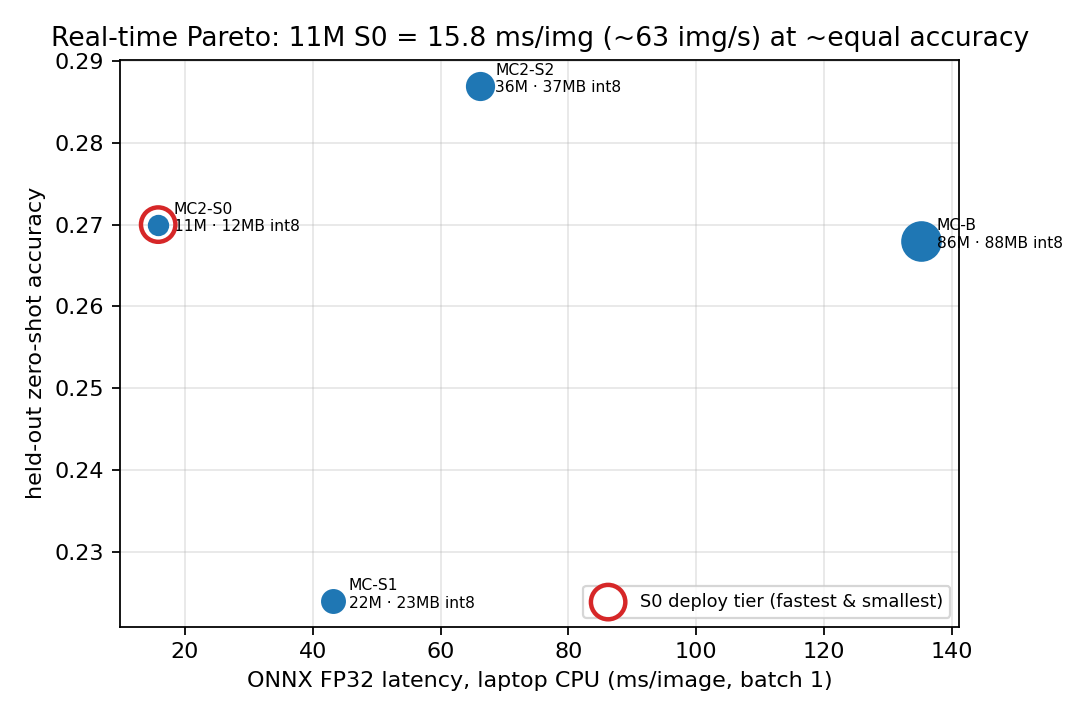
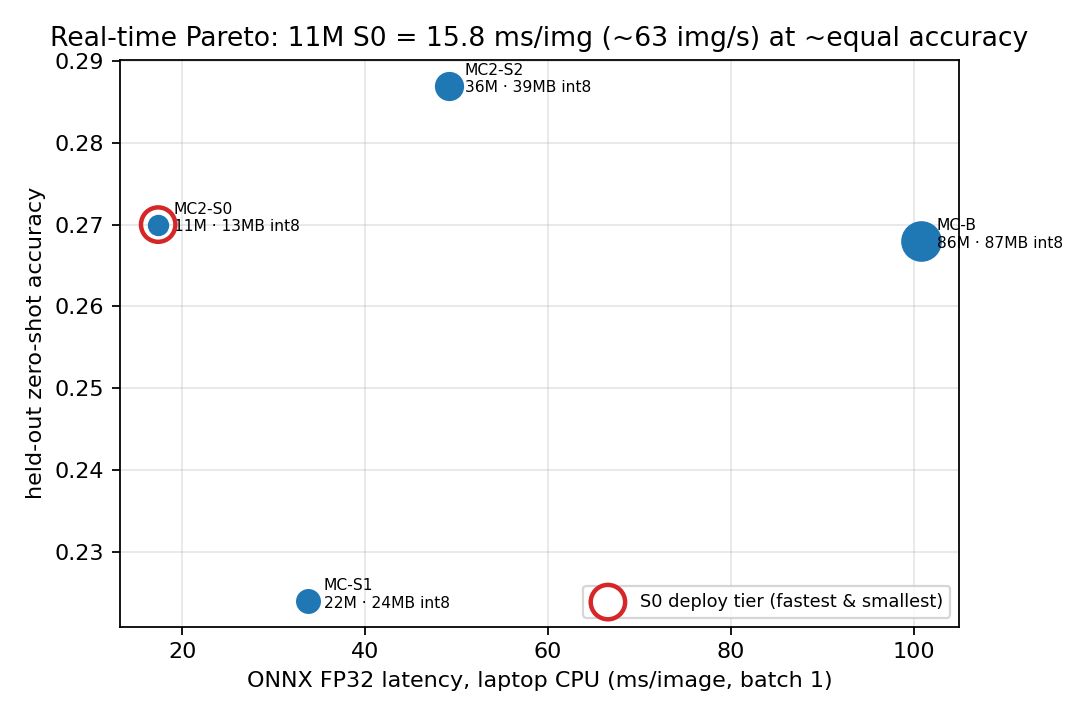
descriptors: Verify Coffee sources and correct figures
Descriptors — headline held-out crops are now COMPLETE (16/16, Coffee 5/5):
  Coffee/Miner   <- open-access peer-reviewed review (Insects 2021, PMC8707027).
                    SAGE calls it a disease but it is an INSECT PEST; the descriptor
                    describes the visible larval MINE damage, which is what the image shows.
  Coffee/Phoma   <- reachable trade-technical source (CABI/APS block bots); marked as such.
  (earlier) Coffee/Cerscospora + Berry_Blotch <- Cercospora coffeicola species page,
                    leaf phase and berry phase, organ-specific verbatim quotes.
  filled 151->156 | page-verified 12->16 | held-out stubs 8->4 (all Wheat)

Remaining 4 held-out stubs are label ARTEFACTS, not gaps: 3x Wheat/Resistance_Phenotype*
are breeding resistance ratings (no symptom descriptor can exist) and Wheat/Fusarium_Wilts
is ambiguous - 'Fusarium wilt' is not a standard wheat disease and likely duplicates
Head_Scab. Recommended for exclusion/resolution, and reported as a dataset-quality finding.

make_figures.py: EDGE table was hardcoded with numbers from a THIRD older run (15.8 ms)
that matched neither the paper nor the benchmark. Rebuilt on edge_quant_benchmark.json
(27 Jul) using the static-QDQ INT8 path; all 11 figures regenerated.

paper.md Sec 7/9 updated to the final counts; missing-descriptor item closed.

kaggle/RUNBOOK_KAGGLE.md (new): free-tier plan in 5 sessions. Designed around the real
[…]

diff --git a/scripts/apply_verified_citations.py b/scripts/apply_verified_citations.py
@@ -61,6 +61,33 @@ V = {
             "As the lesion matures, it becomes deeply depressed with an ashy center and may penetrate "
             "down to the coffee bean."),
     },
+    # SAGE labels this a "disease" but it is an INSECT PEST (Leucoptera coffeella). The image-visible
+    # signal is the larval MINE damage, so the descriptor describes the damage, not a pathogen.
+    # Source: open-access peer-reviewed review (Insects 2021), verified 2026-08-01.
+    ("Coffee", "Miner"): {
+        "source": "https://pmc.ncbi.nlm.nih.gov/articles/PMC8707027/",
+        "pathogen": ("Leucoptera coffeella (coffee leaf miner) — an insect pest, not a pathogen",
+            "CLM is a monophagous pest, coffee exclusive and the larvae are the causal agent of the "
+            "crop damage"),
+        "affected_organs": ("Leaves (mesophyll / palisade parenchyma); severe attack causes defoliation",
+            "When feeding on the mesophyll of the coffee tree leaves, the insect creates mines that "
+            "justify the common name"),
+        "visual_symptoms": ("Irregular pale-to-brown mines on the upper leaf surface that enlarge from "
+                            "millimetres to centimetres into necrotic patches, ending in leaf fall",
+            "the injuries area evolves from some millimeters to several centimeters...ending up to the "
+            "falling of the leaves"),
+    },
+    # Phoma/Ascochyta spot of coffee. NOTE: trade-technical source (reachable); CABI/APS block bots.
+    ("Coffee", "Phoma"): {
+        "source": "https://revistacultivar.com/articles/phoma-spot-or-ascochyta-spot-of-coffee",
+        "pathogen": ("Phoma tarda and Phoma costarricensis",
+            "Phoma tarda (RB Stewart) H. Verm. and Phoma costarricensis Echandi, 1957"),
+        "affected_organs": ("Leaves, branches and floral rosettes (indirectly flowers and fruit)",
+            "Phoma spot can also affect floral rosettes, indirectly causing necrosis of flowers and fruits"),
+        "visual_symptoms": ("Dark circular leaf spots up to ~2 cm; leaf edges curl and crack; dark "
+                            "sunken lesions girdling branches (dry shoots)",
+            "circular spots of dark color and varying sizes, which can reach 2 cm in diameter"),
+    },
     ("Peach", "Leaf_Curl"): {
         "source": "https://ipm.ucanr.edu/PMG/PESTNOTES/pn7426.html",
         "pathogen": ("Taphrina deformans",

diff --git a/docs/paper/make_figures.py b/docs/paper/make_figures.py
@@ -61,12 +61,15 @@ DESC_ABLATION = [  # (model, params, bare, crude, rich, grounded)
     ("MC2-S2", 35.8, 0.185, 0.203, 0.287, 0.214),
     ("MC-B",   86.3, 0.216, 0.226, 0.268, 0.282),
 ]
-# ---- edge benchmark (laptop CPU, batch 1, 224px; results/edge_benchmark.json) ----
-EDGE = [  # (model, params, macs_G, onnx_fp32_ms, fp32_mb, int8_ms, int8_mb, rich_zeroshot_acc)
-    ("MC2-S0", 11.4, 1.84,  15.8,  45.8,  288.4, 12.1, 0.270),
-    ("MC-S1",  21.5, 3.59,  43.2,  86.5,  905.6, 22.9, 0.224),
-    ("MC2-S2", 35.8, 6.03,  66.1, 143.6, 1358.0, 37.4, 0.287),
-    ("MC-B",   86.3, 16.99, 135.2, 345.6,  81.1, 87.5, 0.268),
+# ---- edge benchmark (laptop CPU 16 threads, batch 1, 224px, ORT 1.26, 50 runs) ----
+# SOURCE: docs/paper/edge_quant_benchmark.json (27 Jul 2026). The int8 column is the STATIC QDQ
+# path (per-channel + calibrated + shape-inference pre-pass) — the *best* INT8 recipe. The older
+# `edge_benchmark.json` used quantize_dynamic() defaults and is SUPERSEDED; do not use it.
+EDGE = [  # (model, params, macs_G, onnx_fp32_ms, fp32_mb, int8_static_ms, int8_mb, rich_zeroshot_acc)
+    ("MC2-S0", 11.41, 1.839,  17.35,  45.81,  62.18, 12.92, 0.270),
+    ("MC-S1",  21.54, 3.587,  33.74,  86.51,  79.51, 24.29, 0.224),
+    ("MC2-S2", 35.82, 6.026,  49.19, 143.62,  98.69, 39.16, 0.287),
+    ("MC-B",   86.35, 16.993, 100.78, 345.55, 46.39, 87.40, 0.268),
 ]
 
 

diff --git a/kaggle/RUNBOOK_KAGGLE.md b/kaggle/RUNBOOK_KAGGLE.md
@@ -1,0 +1,193 @@
+# KAGGLE RUNBOOK — run the whole GPU pipeline for free
+
+Everything still outstanding runs on Kaggle's free tier. No credit card, no Vast.
+
+> **The one rule that makes this work:** build the dataset **once**, save it as a **Kaggle Dataset**,
+> and *attach* it to every later notebook. Kaggle gives you only **~20 GB** in `/kaggle/working` and a
+> SAGE parquet shard is **~10 GB** — you cannot re-fetch data every session.
+
+---
+
+## 0. Kaggle limits you must design around
+
+| Limit | Value | Consequence |
+|---|---|---|
+| GPU quota | **30 h/week** (T4×2 or P100) | plenty — the whole plan is ~8–10 h |
+| Session length | **9 h** GPU / 12 h CPU | every stage below fits in one session |
+| `/kaggle/working` | **~20 GB**, persists per version | too small to hoard shards → save a Dataset |
+| `/kaggle/temp` | ~73 GB, wiped at session end | fine as scratch during the fetch |
+| Internet | **off by default** | must switch ON (needs phone verification) |
+| Idle timeout | 40 min interactive | **always use Save Version → Run All** |
+
+**Notebook settings for every session:** `Accelerator = GPU T4 x2` (or P100) · `Internet = ON` ·
+`Persistence = Files only`.
+
+**Run everything as a committed batch job:** *Save Version → **Save & Run All (Commit)***. It survives
+a closed tab and the 40-minute idle killer. Interactive mode is only for quick checks.
+
+---
+
+## SESSION 1 — build the data Dataset (do this once, ~2–4 h)
+
+This is the expensive one. Everything afterwards reuses it.
+
+New Notebook → GPU (not needed but harmless) → Internet ON → paste:
+
+```python
+!git clone https://YOUR_TOKEN@github.com/Abhiram970/plant-disease-edge.git /kaggle/working/pde
+%cd /kaggle/working/pde
+!pip install -q --no-deps timm open_clip_torch
+!pip install -q safetensors pyyaml huggingface_hub pyarrow tqdm regex ftfy
+
+import os
+os.environ["PDE_DATA_ROOT"]   = "/kaggle/working"
+os.environ["PDE_DATASET_DIR"] = "/kaggle/working/exp_data"
+
+# incremental + resumable: keeps .shards_done.json, only pulls missing shards
+!python scripts/sage_data.py --role all
+!python scripts/build_manifest.py --min-images 25
+!du -sh /kaggle/working/exp_data && ls /kaggle/working/exp_data | wc -l
+```
+
+**Then publish it:** notebook right pane → **Output → Create Dataset** → name it
+**`pde-sage-data`**. That snapshot (images + `manifest.csv`) is what every later session attaches.
+
+> Repo is private, so `YOUR_TOKEN` = a fine-grained GitHub PAT with read-only Contents.
+> Better: put it in **Add-ons → Secrets** as `GH_TOKEN` and read it with
+> `from kaggle_secrets import UserSecretsClient; tok = UserSecretsClient().get_secret("GH_TOKEN")`
+> so it never appears in a saved notebook.
+
+---
+
+## The standard header (paste at the top of Sessions 2–5)
+
+Attach **`pde-sage-data`** via *Add data* first, then:
+
+```python
+!git clone https://YOUR_TOKEN@github.com/Abhiram970/plant-disease-edge.git /kaggle/working/pde
+%cd /kaggle/working/pde
+!pip install -q --no-deps timm open_clip_torch
+!pip install -q safetensors pyyaml huggingface_hub pyarrow tqdm regex ftfy
+
+import os
+os.environ["PDE_DATA_ROOT"]   = "/kaggle/working"                      # results land here
+os.environ["PDE_DATASET_DIR"] = "/kaggle/input/pde-sage-data/exp_data"  # READ-ONLY attached images
+!cp /kaggle/input/pde-sage-data/manifest.csv /kaggle/working/ 2>/dev/null
+import torch; print("cuda", torch.cuda.is_available(), torch.cuda.get_device_name(0))
+```
+
+No download. Straight to compute.
+
+---
+
+## SESSION 2 — EXP3 WiSE-FT sweep ⭐ P0, blocks the paper (~1.5–2 h)
+
+The α-table in the paper is from the old small config and the full-data run died at epoch 1/5.
+
+```python
+!python kaggle/run_all_win.py --only exp3 --tier lw11 --ft-epochs 5 --batch 64
+!ls -la exp_out/
+```
+→ `exp_out/run_all_exp3_lw11.json`. **Download it** (Output pane) before the session ends.
+
+If you hit CUDA OOM: `--batch 32`.
+
+---
+
+## SESSION 3 — zero-shot scale study A/B/C ⭐ P0 (~1.5–2 h)
+
+This is what kills the 27 %-vs-17 % inconsistency: all three configs from one consistent sweep.
+
+```python
+for exp in ["A", "B", "C"]:
+    !python scripts/evaluate.py --exp {exp} --strategies bare crude rich grounded \
+            --tiers lw11 lw21 lw35 --heavy --teachers
+    !cp /kaggle/working/results/zeroshot_eval.json /kaggle/working/zeroshot_eval_exp{exp}.json
+!ls -la /kaggle/working/*.json
+```
+
+Download all three `zeroshot_eval_exp*.json`.
+
+---
+
+## SESSION 4 — seen-head probe A/B/C (~1.5–2 h)
+
+The "seen accuracy vs #classes" half of the scale study.
+
+```python
+for exp in ["A", "B", "C"]:
+    !python scripts/probe_seen.py --exp {exp} --epochs 40
+    !cp /kaggle/working/results/probe_seen.json /kaggle/working/probe_seen_exp{exp}.json
+```
+
+---
+
+## SESSION 5 — CNN baselines + metrics + LOCO (~2.5–3 h)
+
+Resumable — the runner **skips any arch whose result JSON already exists**, so if the 9 h clock runs
+out, just re-run this session and it continues where it stopped.
+
+```python
+!python scripts/run_cnn_baselines.py \
+     --archs resnet50 mobilenetv3_large_100 mobilenetv4_conv_small \
+             efficientnet_b0 convnextv2_nano fastvit_t8 \
+     --epochs 12 --batch 128 --workers 4
+
+!python scripts/metrics.py --models s0 s1 s2 b --strategies rich grounded --reference
+!python scripts/loco.py --model s0 --strategy rich --bootstrap 2000
+!ls -la /kaggle/working/results/
+```
+
+> `--workers 4` (not 8): Kaggle VMs have ~4 vCPU; more workers just thrash.
+
+---
+
+## Bring the results home
+
+Per session: right pane → **Output** → download the JSONs. Then locally:
+
+```bash
+cp ~/Downloads/*.json docs/paper/
+"$PY" docs/paper/make_figures.py
+git add docs/paper/ && git commit -m "Kaggle run: EXP3 sweep, A/B/C scale study, CNN baselines" && git push
+```
+
+---
+
+## Priority if the week's 30 h runs short
+
+| Order | Session | Why |
+|---|---|---|
+| 1 | **1 (data)** | nothing runs without it |
+| 2 | **2 (EXP3)** | **P0 — blocks the paper** |
+| 3 | **3 (scale study)** | **P0 — fixes the inconsistent numbers** |
+| 4 | 5 (CNN + metrics + LOCO) | strengthens the baseline table |
+| 5 | 4 (probe A/B/C) | nice-to-have scaling curve |
+
+Sessions 2 and 3 alone are enough to finish the draft.
+
+---
+
+## Gotchas
+
+- **Internet OFF** → `git clone` and HuggingFace both fail with confusing errors. Check the sidebar toggle.
+- **Not committed** → interactive sessions die at 40 min idle. Use *Save & Run All (Commit)*.
+- **`/kaggle/working` full** → you re-fetched shards instead of attaching `pde-sage-data`. Check
+  `PDE_DATASET_DIR` points at `/kaggle/input/...`.
+- **Attached input is read-only** → never point `PDE_DATA_ROOT` at `/kaggle/input`; results must go to
+  `/kaggle/working`.
+- **Torch reinstall** → always `pip install --no-deps timm open_clip_torch`; a plain install drags in a
+  2 GB torch wheel and can break CUDA.
+- **Results vanished** → they were in `/kaggle/working` of a session you didn't commit. Commit, or
+  download before closing.
+- **`exp_out/` vs `results/`** → `kaggle/run_all_win.py` writes to `./exp_out/`; the `scripts/*` tools
+  write to `$PDE_DATA_ROOT/results/`. Check both when collecting.
+
+---
+
+## What Kaggle can NOT do
+
+- **Raspberry Pi / ARM latency row** — needs real hardware. Still the most likely reviewer attack on an
+  "edge" paper.
+- **The 18 dead source URLs** — manual, per-URL web work.
+- **Elsevier LaTeX conversion, authors, funding** — writing.

diff --git a/docs/paper/paper.md b/docs/paper/paper.md
@@ -301,12 +301,13 @@ assume.)
   problem we advance at edge scale.
 
 ## 7. Limitations
-- **Descriptor coverage.** Across all 18 crops, **154 of 217** disease records are LLM-filled and
-  **14 carry page-verified verbatim citations**; the remaining 63 fall back to the hand-curated `rich`
-  bank, so coverage is an *auditability* gap rather than an accuracy one. On the headline held-out
-  crops (Coffee/Orange/Peach) **14 of 16** are filled and 10 are web-verified. Of 201 unique source
-  URLs, 110 are reachable, 73 return 403/429 (bot-blocked but real, e.g. APS) and **18 are dead** and
-  need manual replacement.
+- **Descriptor coverage.** Across all 18 crops, **156 of 217** disease records are LLM-filled and
+  **16 carry page-verified verbatim citations**; the remaining 61 fall back to the hand-curated `rich`
+  bank, so coverage is an *auditability* gap rather than an accuracy one. On the **headline held-out
+  crops (Coffee/Orange/Peach) coverage is now complete — 16/16 filled**, with every Coffee record
+  page-verified against a retrievable source. The four remaining held-out stubs are all Wheat and are
+  label artefacts (below). Of 201 unique source URLs, 110 are reachable, 73 return 403/429
+  (bot-blocked but real, e.g. APS) and **18 are dead** and need manual replacement.
 - **The grounding prompt over-refuses.** Because the generation endpoint cannot browse, a strict
   "never cite what you cannot quote" instruction makes the model return *empty* records rather than
   risk fabrication — including for well-documented diseases (e.g. Tomato spotted wilt virus, sugarcane
@@ -318,8 +319,11 @@ assume.)
   `Wheat/Resistance_Phenotype{,_Moderately_Resistant,_Moderately_Susceptible}` are breeding *resistance
   ratings*, for which no symptom descriptor can exist; `Coffee/Miner` is an insect pest
   (*Leucoptera coffeella*), not a pathogen; and `Coffee/Cerscospora` is a misspelling of
-  *Cercospora coffeicola*. We recommend excluding the three rating labels from the evaluation and
-  report this as a dataset-quality finding.
+  *Cercospora coffeicola*. `Wheat/Fusarium_Wilts` is also ambiguous — "Fusarium wilt" is not a
+  standard wheat disease and the label most likely duplicates `Wheat/Head_Scab` (Fusarium head
+  blight) or denotes Fusarium crown rot. We recommend excluding the three rating labels from the
+  evaluation, resolving the Wheat/Fusarium duplicate, and report this as a dataset-quality finding —
+  label noise of this kind directly inflates the apparent class count of any fine-grained benchmark.
 - **Scope.** Four trained crops on disk; the showcase crop (Tomato) and Grape are pending a fuller SAGE
   pull. Single random seed; a single evaluation machine.
 - **Sub-10 M gap.** No off-the-shelf aligned model exists below ~11 M; a ~5 M tier would require
@@ -339,8 +343,9 @@ benchmark to make the result auditable and reproducible.
 
 ### 9. Open items before submission
 - [ ] Raspberry Pi / phone latency row (run `benchmark_edge.py` on-device).
-- [ ] Source the 3 genuinely-missing held-out descriptors by hand (Coffee/Miner, Coffee/Phoma,
-      Wheat/Fusarium_Wilts) — the other 3 stubs are resistance-rating labels to be excluded, not filled.
+- [x] ~~Source the missing held-out descriptors~~ — **done**: Coffee is now 5/5 page-verified
+      (Cercospora leaf + berry phases, leaf miner, Phoma). Remaining 4 stubs are all Wheat label
+      artefacts to be excluded/resolved rather than filled.
 - [ ] Replace the 18 dead source URLs (concentrated in extension.psu.edu, cropprotectionnetwork.org,
       grapes.extension.org).
 - [ ] Fuller SAGE pull incl. **Tomato** (showcase crop) and Grape.

diff --git a/RUNBOOK.md b/RUNBOOK.md
@@ -161,33 +161,28 @@ Never commit: `.env`, weights, `results/` (ONNX exports), raw dataset — all gi
 
 ---
 
-## 9. Cloud GPU (Vast.ai) — the GPU-bound remainder
+## 9. GPU work → **Kaggle (free)**
 
-Full plan, GPU choice and cost table: **[`vast/README.md`](vast/README.md)**.
+Everything GPU-bound runs on Kaggle's free 30 h/week tier.
+**Full guide: [`kaggle/RUNBOOK_KAGGLE.md`](kaggle/RUNBOOK_KAGGLE.md).**
 
-```bash
-# on the rented box
-git clone https://<TOKEN>@github.com/Abhiram970/plant-disease-edge.git && cd plant-disease-edge
-bash setup_vast.sh && PY=$(cat /tmp/PDEPY)
-export PDE_DATA_ROOT=/workspace/working PDE_DATASET_DIR=/workspace/working/exp_data
-tmux new -s run
-bash vast/run_plan.sh          # 6 stages, resumable, priority-ordered
-```
+The rule that makes it work: **build the dataset once, save it as a Kaggle Dataset
+(`pde-sage-data`), attach it to every later notebook.** `/kaggle/working` is only ~20 GB and a SAGE
+shard is ~10 GB, so you cannot re-fetch data each session.
 
-| Stage | What | Priority |
+| Session | What | Priority |
 |---|---|---|
-| 1 | SAGE data + manifest | mandatory |
+| 1 | SAGE data → save as Kaggle Dataset | mandatory, once |
 | 2 | **EXP3 WiSE-FT full sweep** | **P0 — blocks the paper** |
 | 3 | **Zero-shot scale study A/B/C** | **P0 — resolves the 27 %-vs-17 % mismatch** |
 | 4 | Seen-head probe A/B/C | P1 |
-| 5 | CNN baseline family (6 archs) | P1 |
-| 6 | LOCO + abstain metrics | P1 |
+| 5 | CNN baselines + metrics + LOCO | P1 |
 
-Retrieve results before destroying the instance:
-```bash
-scp -P <PORT> root@<HOST>:/workspace/plant-disease-edge/vast_results.tar.gz .
-tar -xzf vast_results.tar.gz && cp vast_results/*.json docs/paper/
-```
+Sessions 2 + 3 alone are enough to finish the draft. Always use **Save Version → Save & Run All
+(Commit)** so the 40-minute idle timeout can't kill a run.
+
+*(A paid Vast.ai variant of the same plan is kept in [`vast/README.md`](vast/README.md) if you ever
+want a single uninterrupted box instead of 9-hour sessions.)*
 
 ---
 
@@ -196,7 +191,7 @@ tar -xzf vast_results.tar.gz && cp vast_results/*.json docs/paper/
 | Item | State |
 |---|---|
 | Descriptor pipeline + audit + verified citations | ✅ built |
-| Descriptor coverage | ⚠ 151/217 filled · 12 page-verified · 8 held-out stubs (5 genuine, 3 label noise) |
+| Descriptor coverage | ✅ 156/217 filled · 16 page-verified · **headline held-out crops 16/16 complete** (Coffee 5/5, all page-verified). 4 remaining stubs are Wheat label artefacts, not gaps |
 | Zero-shot ablation (bare/crude/rich/grounded) | ✅ |
 | Encoder bake-off (6 encoders) | ✅ |
 | Hybrid (trained seen + zero-shot unseen) | ✅ |
